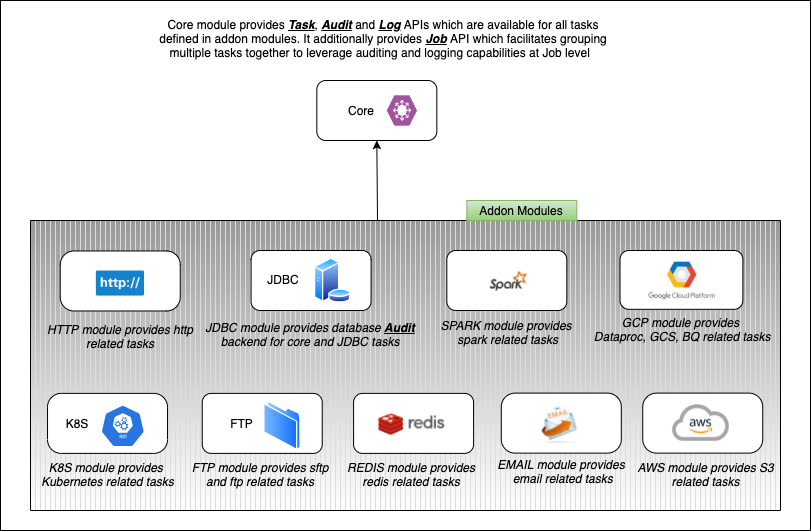
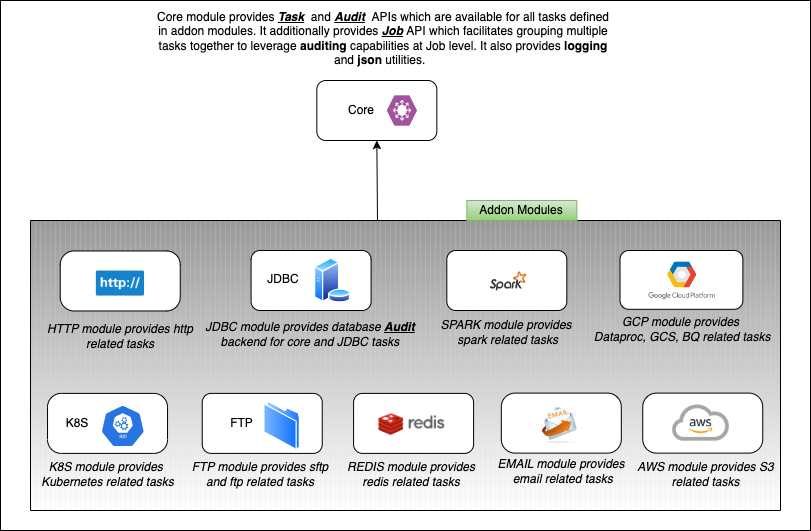
Added documentation

diff --git a/docs/readme.template.md b/docs/readme.template.md
@@ -87,7 +87,6 @@ __Maven__
     - [Task](#task)
     - [Audit](#audit)
     - [Config](#config)
-    - [Json](#json)
   - [GCP](#gcp)
     - [Dataproc](#dataproc)
   - [K8S](#k8s)
@@ -100,14 +99,32 @@ __Maven__
 <!-- /TOC -->
 
 ## Core
-```scala mdoc:silent
-// Todo
-```
+Core module provides **Task** and **Audit** APIs which is used by all tasks in different modules. It additionally provides **Job** API which facilitates grouping multiple tasks together to leverage **auditing** and **logging** capabilities at Job level  
 ### Task
+Below example is the simplest example of creating and running a Task using EtlFlow.
+This example uses noop audit backend which does nothing, This is useful when you want to test a task that require a audit backend to be passed in.
+
 ```scala mdoc:silent
-// Todo
+
+import etlflow.task.GenericTask
+import zio._
+
+object Job1 extends zio.ZIOAppDefault {
+
+  def executeTask(): Task[Unit] = ZIO.logInfo(s"Hello EtlFlow Task")
+
+  private val task1 = GenericTask(
+    name = "Task_1",
+    task = executeTask()
+  )
+
+  override def run: Task[Unit] = task1.toZIO.provide(etlflow.audit.noop)
+}
 ```
 ### Audit
+EtlFlow provides an auditing mechanism that can be used to track the execution of workflows(Collection of tasks). The auditing mechanism can be used to record the start and end of tasks, as well as the metadata that is processed by each task.
+
+
 ```scala mdoc:silent
 // Todo
 ```

diff --git a/README.md b/README.md
@@ -87,7 +87,6 @@ __Maven__
     - [Task](#task)
     - [Audit](#audit)
     - [Config](#config)
-    - [Json](#json)
   - [GCP](#gcp)
     - [Dataproc](#dataproc)
   - [K8S](#k8s)
@@ -100,14 +99,32 @@ __Maven__
 <!-- /TOC -->
 
 ## Core
-```scala
-// Todo
-```
+Core module provides **Task** and **Audit** APIs which is used by all tasks in different modules. It additionally provides **Job** API which facilitates grouping multiple tasks together to leverage **auditing** and **logging** capabilities at Job level  
 ### Task
+Below example is the simplest example of creating and running a Task using EtlFlow.
+This example uses noop audit backend which does nothing, This is useful when you want to test a task that require a audit backend to be passed in.
+
 ```scala
-// Todo
+
+import etlflow.task.GenericTask
+import zio._
+
+object Job1 extends zio.ZIOAppDefault {
+
+  def executeTask(): Task[Unit] = ZIO.logInfo(s"Hello EtlFlow Task")
+
+  private val task1 = GenericTask(
+    name = "Task_1",
+    task = executeTask()
+  )
+
+  override def run: Task[Unit] = task1.toZIO.provide(etlflow.audit.noop)
+}
 ```
 ### Audit
+EtlFlow provides an auditing mechanism that can be used to track the execution of workflows(Collection of tasks). The auditing mechanism can be used to record the start and end of tasks, as well as the metadata that is processed by each task.
+
+
 ```scala
 // Todo
 ```
